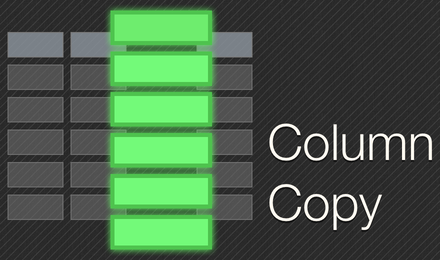
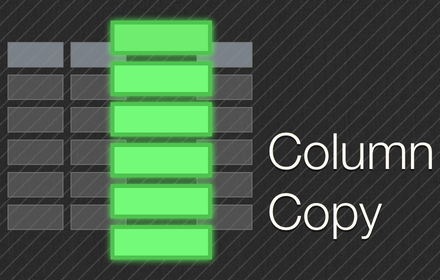
Correct promo size. Adding GA tracking.

diff --git a/src/inject/inject.js b/src/inject/inject.js
@@ -50,6 +50,10 @@
       this.copiedToClipboardAnimation($table);
       this.copyValuesToClipboard(this.getValuesForTable($table));
     }
+
+    if (typeof _gaq !== 'undefined') {
+      _gaq.push(['_trackEvent', 'copyTable']);
+    }
   };
 
   ColumnCopy.prototype.copyColumnContainingCell = function (cell, $table) {
@@ -58,6 +62,10 @@
     if (data && data.column && data.values) {
       this.copiedToClipboardAnimation(data.column);
       this.copyValuesToClipboard(data.values);
+    }
+
+    if (typeof _gaq !== 'undefined') {
+      _gaq.push(['_trackEvent', 'copyColumn']);
     }
   };
 
@@ -205,3 +213,15 @@
   var _ColumnCopy = new ColumnCopy();
 
 }(window, document, jQuery));
+
+
+// GA tracking
+var _gaq = _gaq || [];
+_gaq.push(['_setAccount', 'UA-40331704-1']);
+_gaq.push(['_trackPageview']);
+
+(function() {
+  var ga = document.createElement('script'); ga.type = 'text/javascript'; ga.async = true;
+  ga.src = 'https://ssl.google-analytics.com/ga.js';
+  var s = document.getElementsByTagName('script')[0]; s.parentNode.insertBefore(ga, s);
+})();
